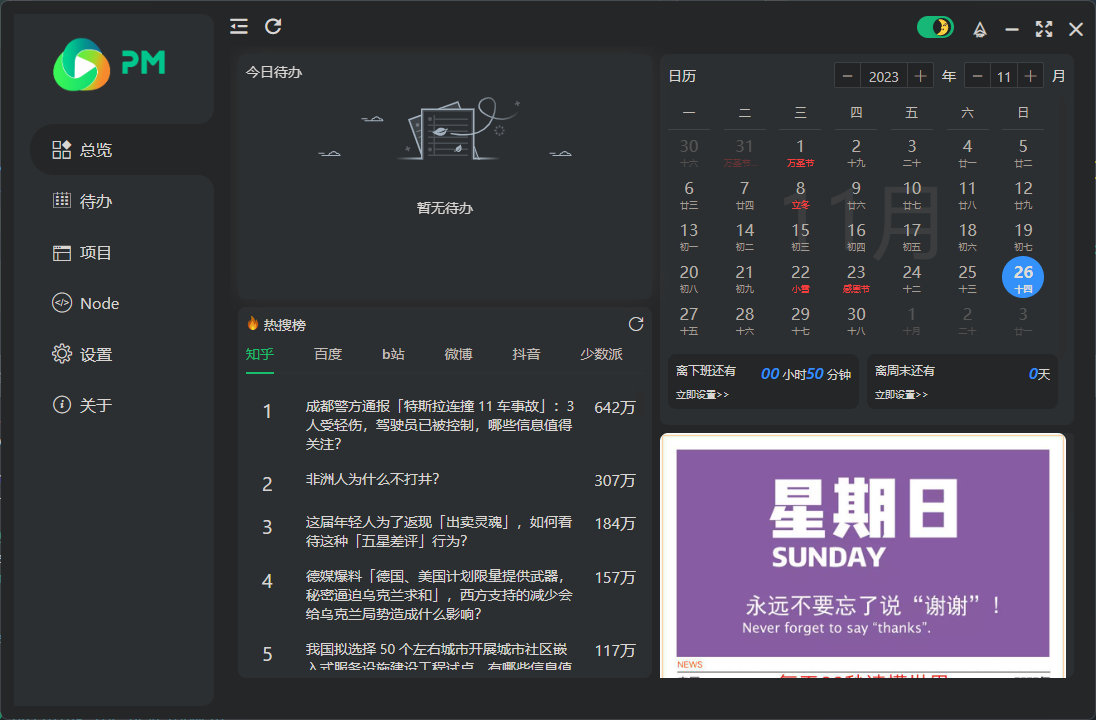
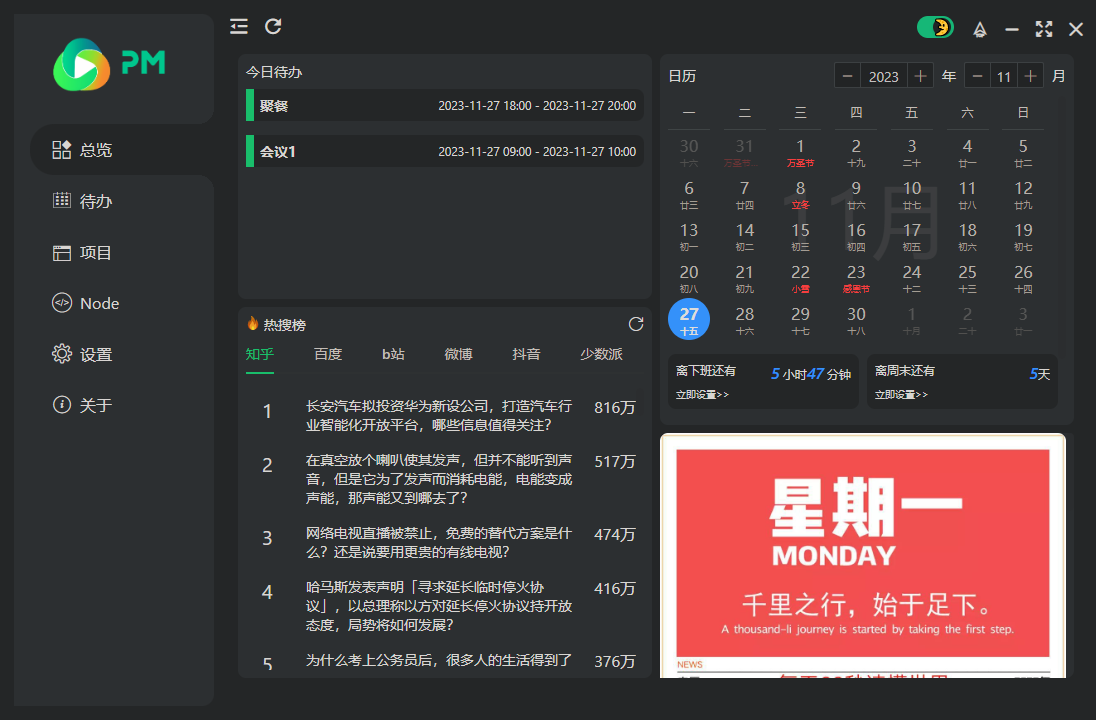
feat: 完成总览日历组件

diff --git a/src/views/dashboard/components/Calendar.vue b/src/views/dashboard/components/Calendar.vue
@@ -83,7 +83,7 @@ const state = reactive({
   day: now.getDate(),
   nextFestivalDay: 0,
   nextFestival: '',
-  nextOffWork: '0',
+  nextOffWork: [0, 0],
   nextWeekday: 0,
   nextSalaryDay: 0
 })
@@ -116,33 +116,52 @@ function getSalaryDay() {
 }
 
 function getWeekDay() {
-  console.log(now.getDay())
   if (moyu.value.weekDay.includes(now.getDay())) {
     state.nextWeekday = 0
   } else {
     const arr = moyu.value.weekDay.map((v: number) => (v == 0 ? 7 : v))
-    state.nextWeekday = Math.min(arr) - now.getDay()
+    state.nextWeekday = Math.min(...arr) - now.getDay()
   }
 }
 
-// TODO: 完成离下班时间计算
+let frameworkKey: number | null = null
 function getOffWork() {
   if (state.nextWeekday) {
-    state.nextOffWork = ''
+    state.nextOffWork = []
+    const allMinutes = dayjs(
+      dayjs(`${state.year}/${state.month + 1}/${state.day} ${moyu.value.offWork}`)
+    ).diff(new Date(), 'minutes')
+    if (allMinutes <= 0) {
+      state.nextOffWork = [0, 0]
+    } else {
+      const hours = Math.floor(allMinutes / 60)
+      const minutes = allMinutes % 60
+      state.nextOffWork = [hours, minutes]
+    }
   } else {
-    state.nextOffWork = ''
+    state.nextOffWork = []
   }
+  frameworkKey = requestAnimationFrame(getOffWork)
 }
 
 function initData() {
   getSalaryDay()
   getWeekDay()
+  if (frameworkKey) {
+    cancelAnimationFrame(frameworkKey)
+    frameworkKey = null
+  }
   getOffWork()
 }
 
 onMounted(() => {
   getNextFestival()
   initData()
+})
+
+onBeforeMount(() => {
+  frameworkKey && cancelAnimationFrame(frameworkKey)
+  frameworkKey = null
 })
 </script>
 
@@ -163,7 +182,9 @@ onMounted(() => {
       <div class="moyu-wrapper">
         <div>
           <p>
-            离下班还有<u><i>00</i> 小时<i>50</i> 分钟</u>
+            离下班还有<u
+              ><i>{{ state.nextOffWork[0] }}</i> 小时<i>{{ state.nextOffWork[1] }}</i> 分钟</u
+            >
           </p>
           <span @click="setOffWork">立即设置>></span>
         </div>

diff --git a/src/App.vue b/src/App.vue
@@ -31,7 +31,7 @@ onMounted(async () => {
   })
 
   ipcRenderer.invoke(IPCDBEvents.GET_DB, 'todo').then((todo) => {
-    setTodo(todo)
+    setTodo(todo ?? {})
   })
 
   ipcRenderer.invoke(IPCSystemEvents.GET_APP_INFO).then((appInfo) => {

diff --git a/src/views/todo.vue b/src/views/todo.vue
@@ -174,6 +174,7 @@ function confirm() {
 watch(
   events,
   (et) => {
+    console.log(et)
     setTodo(et, 'list')
   },
   {
